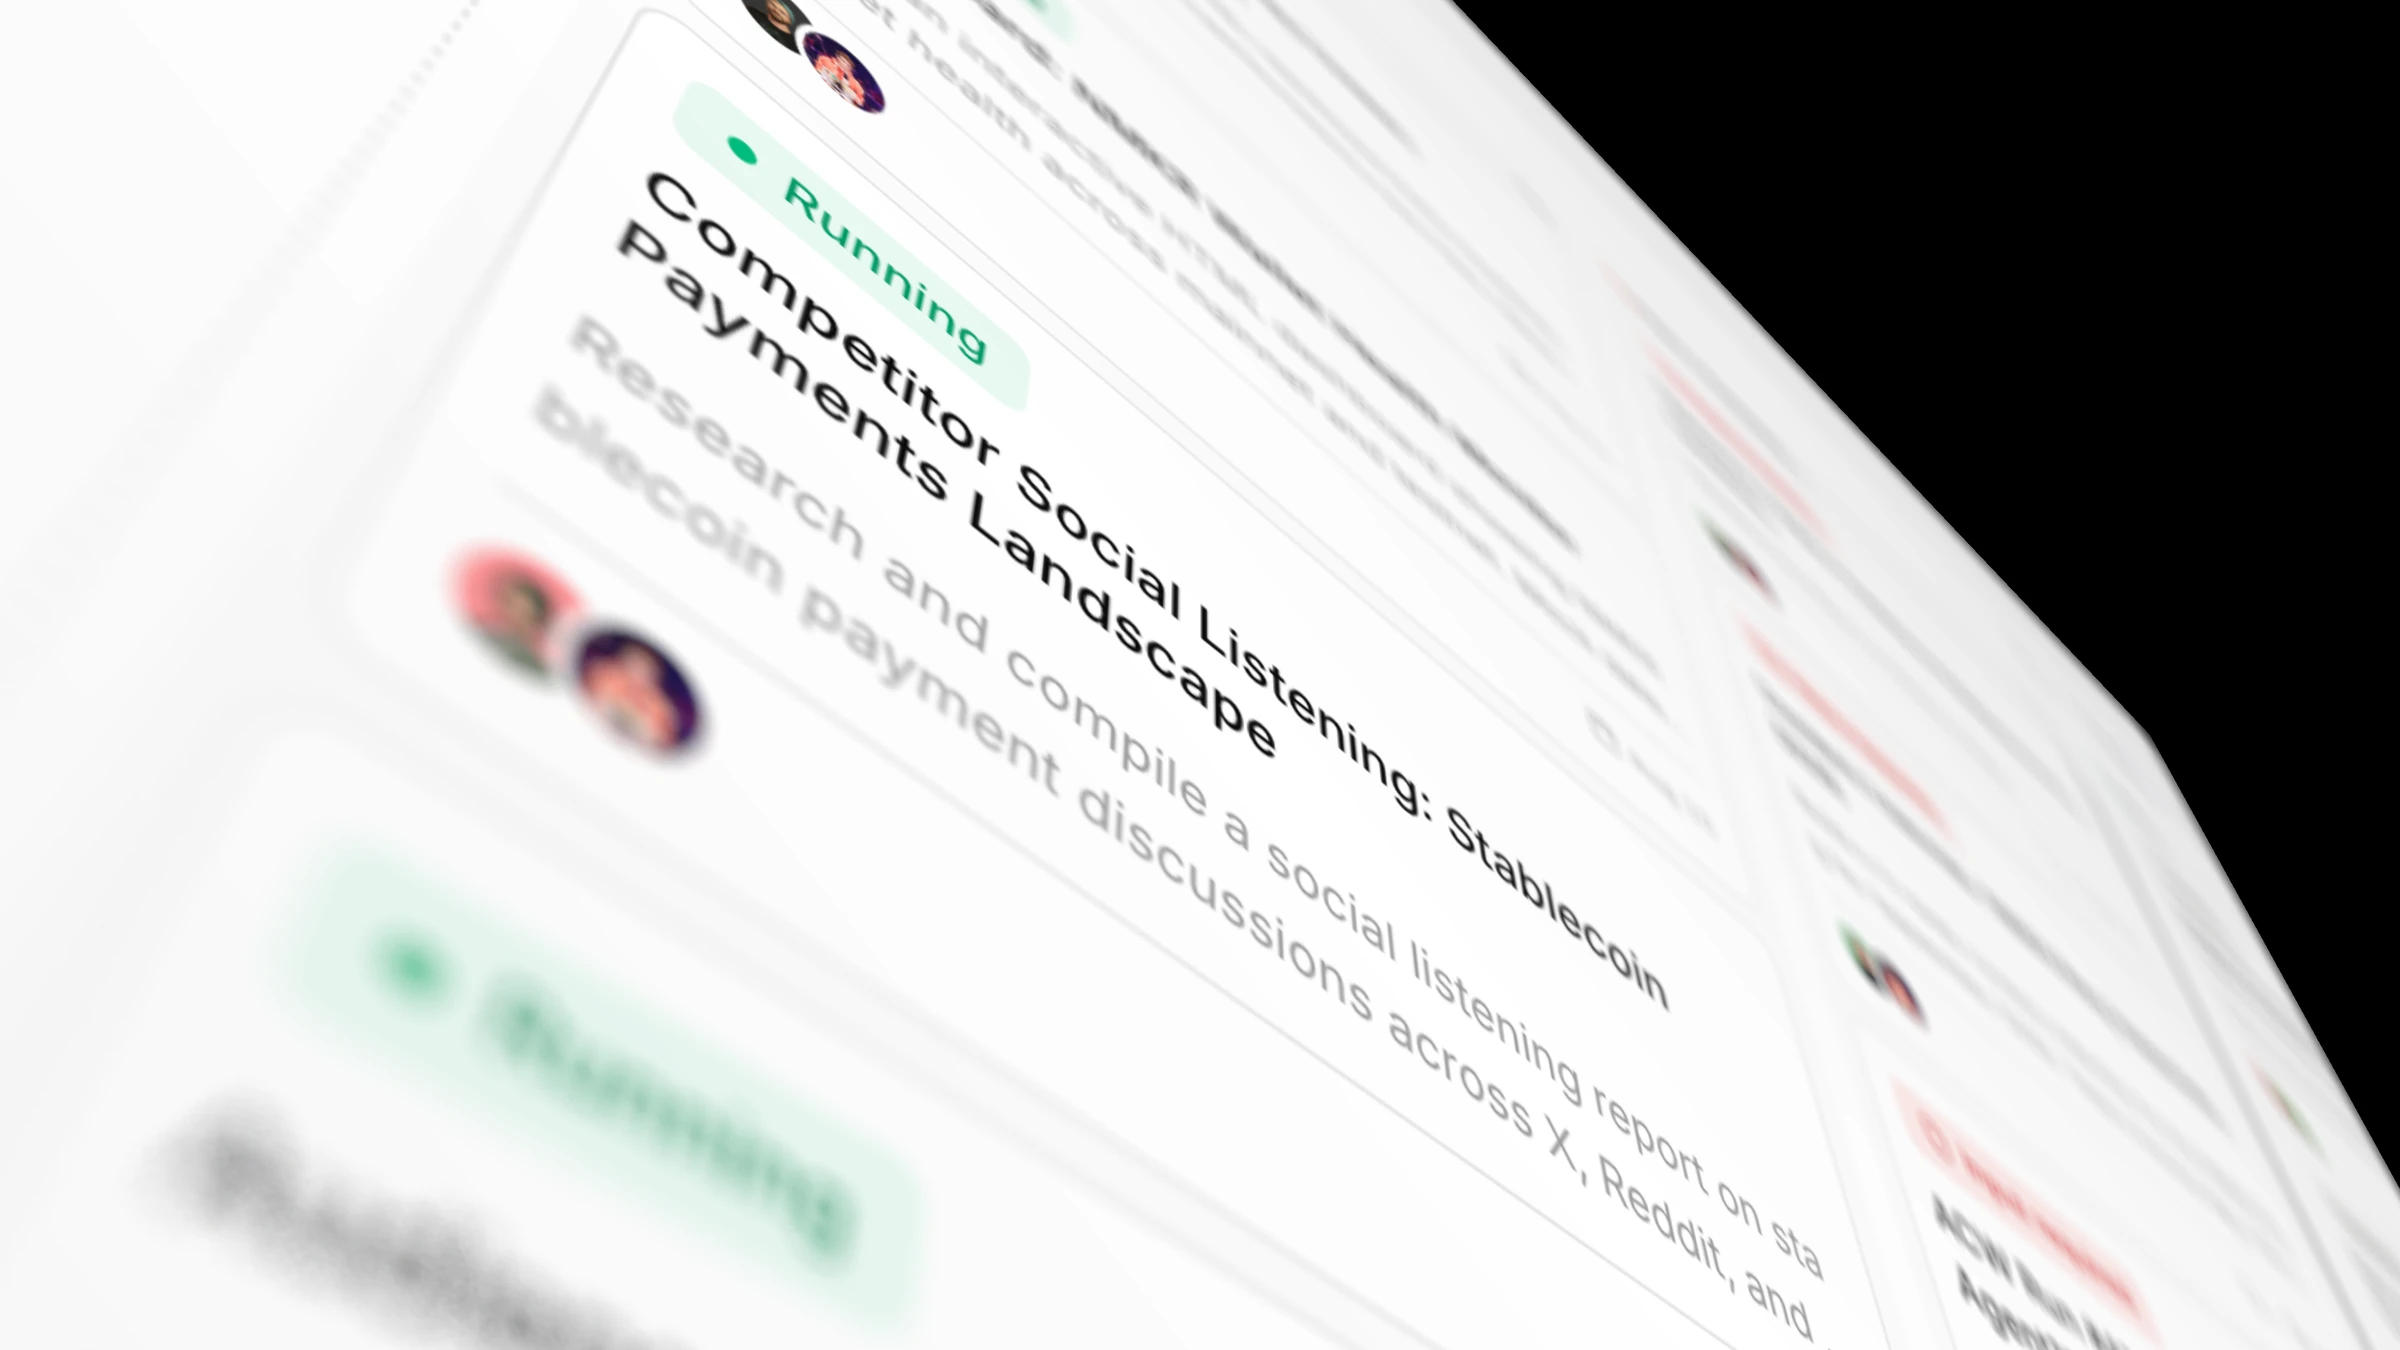
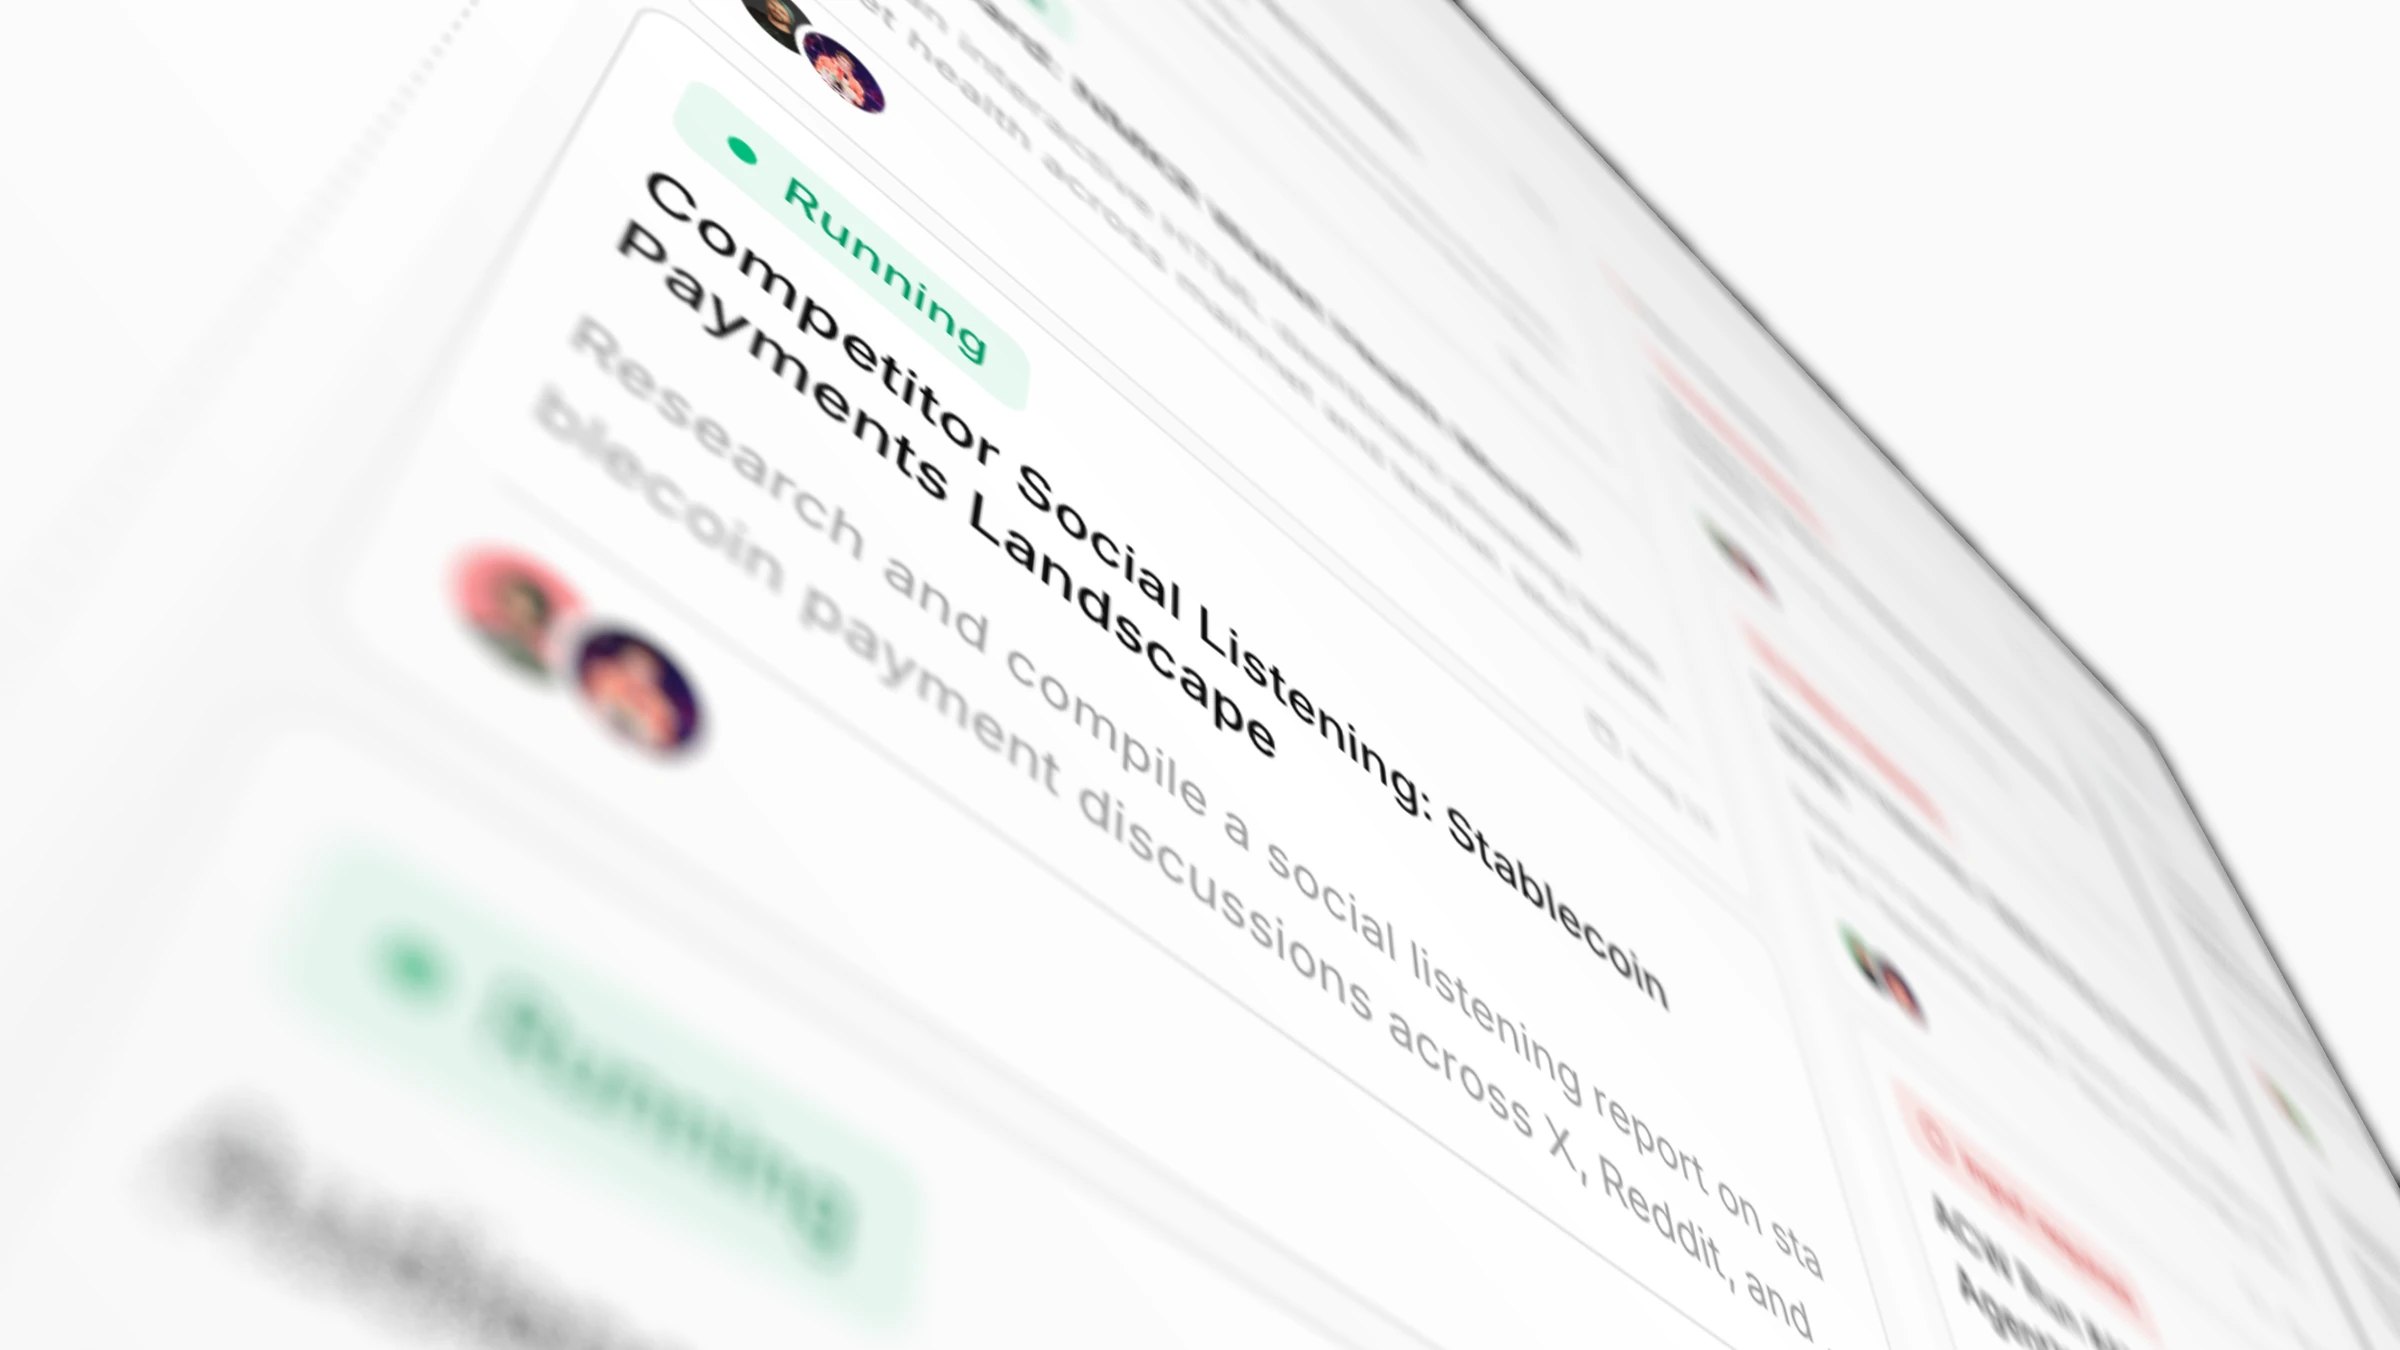
sokosumi: take the black box off the product screenshots
The renders were sitting in an ink-filled, hairlined frame, and each one
carried its own black background into the corners, so every shot read as
a black-bordered box on a paper page.

The frame is gone and the renders' own background is flattened to paper,
so a screenshot now dissolves into the page instead of being framed by
it. Only genuine background is repainted: the flood fill is seeded from
the border and, on the briefing shot, confined to the right of the search
bar so the product's own black input survives untouched.

Changed region(s): [[0.5938, 0.0, 1.0, 0.8711]]

diff --git a/apps/sokosumi/index.html b/apps/sokosumi/index.html
@@ -461,18 +461,18 @@
              arrows slide the track ===== */
       .shot-stage { position: relative; }
       .shot-viewport { overflow: hidden; }
-      .shot-frame {
-        position: relative; border: 1px solid var(--border); border-radius: var(--r-lg);
-        overflow: hidden; background: var(--ink);
-      }
+      /* no frame: the renders already read as objects, so a box around them
+         only draws a hard edge the eye has to cross */
+      .shot-frame { position: relative; border-radius: var(--r-lg); overflow: hidden; }
       .shot-track { display: flex; gap: 24px; transition: transform 0.6s var(--ease); }
       @media (prefers-reduced-motion: reduce) { .shot-track { transition: none; } }
       .shot-slide { flex: 0 0 88%; min-width: 0; }
       /* 16:9 matches the product renders exactly, so nothing is cropped. The
-         canvas sits on ink because the renders fade into black at the edges. */
+         renders carry their own dark falloff, so the canvas stays paper and a
+         soft mask dissolves the last few percent of each edge into the page. */
       .shot-canvas {
         aspect-ratio: 16 / 9; display: flex; align-items: center; justify-content: center;
-        background: var(--ink); overflow: hidden;
+        background: var(--background); overflow: hidden;
       }
       .shot-canvas span { font-size: 13px; letter-spacing: 0.02em; color: var(--muted-foreground); }
       .shot-canvas img { width: 100%; height: 100%; object-fit: cover; display: block; }
